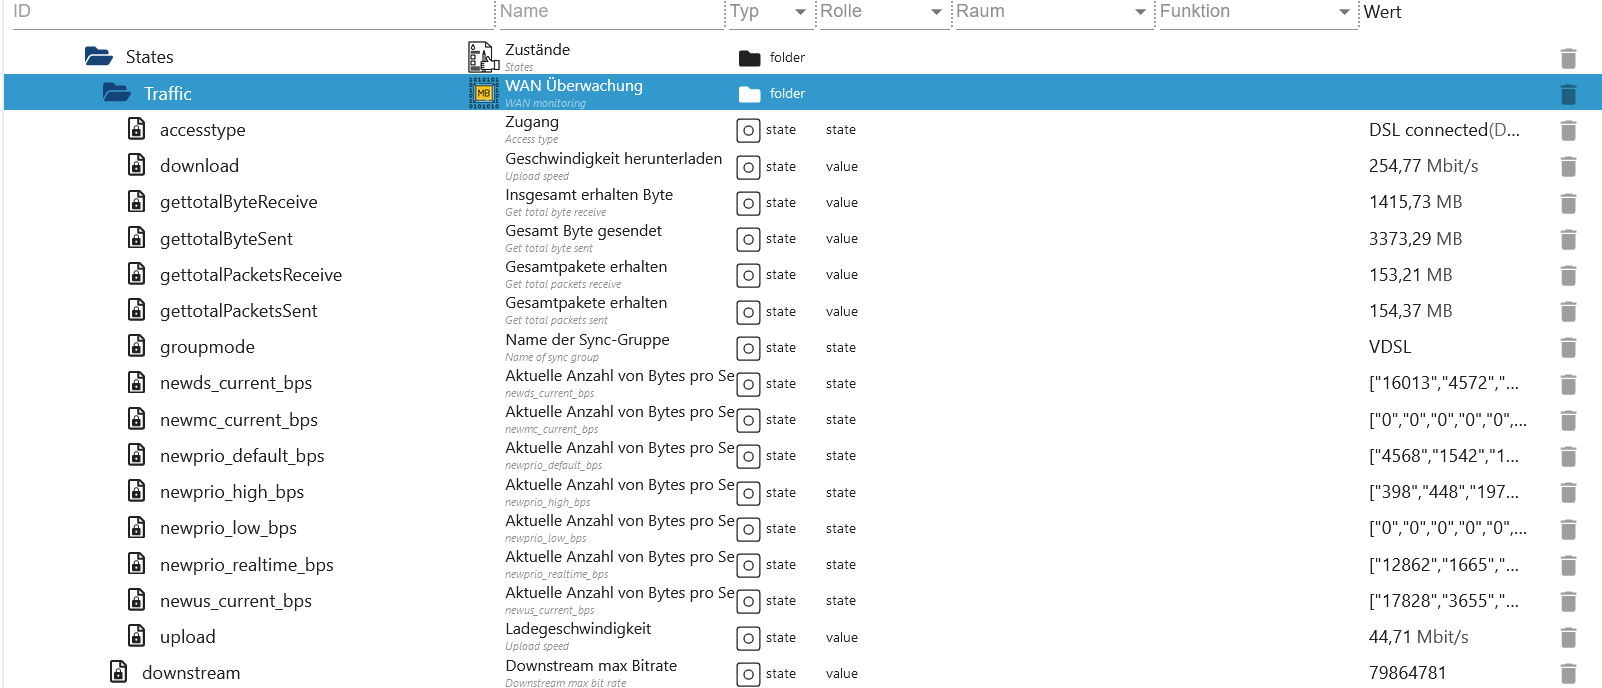
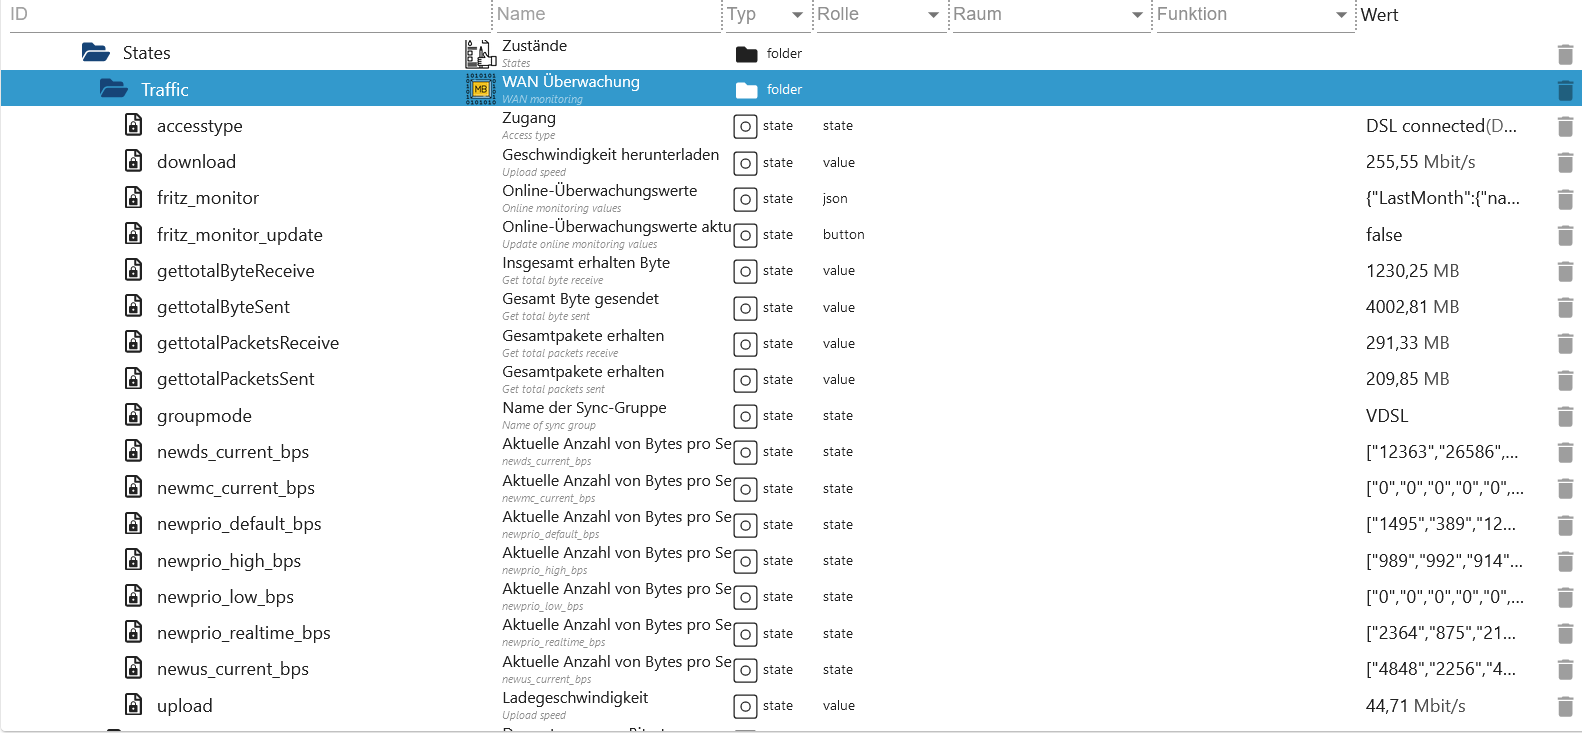
update desc & bugfix

diff --git a/lib/api.js b/lib/api.js
@@ -518,7 +518,7 @@ class Fritzbox extends EventEmitter {
             );
         } else if (resp && resp.response && resp.response.status == 500) {
             this.adapter.log.warn(`Internal error command!`);
-        } else if (resp.indexOf("timeout") != -1) {
+        } else if (resp && resp.indexOf("timeout") != -1) {
             this.adapter.log.warn(`Request error command! - ${resp}`);
         } else {
             this.adapter.log.warn(`Unknown error command - ${JSON.stringify(resp)}`);

diff --git a/docs/de/README.md b/docs/de/README.md
@@ -871,6 +871,53 @@
 -   `States.Traffic.newus_current_bps` Aktuelle Anzahl der Bytes pro Sekunde in Upstream-Richtung
 -   `States.Traffic.upload` Maximale Anzahl von Bytes pro Sekunde in Upstream-Richtung
 
+# Online Monitoring
+
+```JSON
+{
+  "LastMonth": {
+    "name": "Vormonat",
+    "time": "743:59",
+    "outgoing": 40321,
+    "incoming": 812748,
+    "total": 853069,
+    "connection": "62"
+  },
+  "ThisWeek": {
+    "name": "Aktuelle Woche",
+    "time": "6:21",
+    "outgoing": 123,
+    "incoming": 911,
+    "total": 1034,
+    "connection": "2"
+  },
+  "Today": {
+    "name": "Heute",
+    "time": "6:21",
+    "outgoing": 123,
+    "incoming": 911,
+    "total": 1034,
+    "connection": "2"
+  },
+  "Yesterday": {
+    "name": "Gestern",
+    "time": "24:00",
+    "outgoing": 1605,
+    "incoming": 45867,
+    "total": 47472,
+    "connection": "2"
+  },
+  "ThisMonth": {
+    "name": "Aktueller Monat",
+    "time": "222:20",
+    "outgoing": 15394,
+    "incoming": 239237,
+    "total": 254631,
+    "connection": "22"
+  }
+}
+```
+
 ![tr-064_states_3.png](img/tr-064_states_3.png)
 
 ### Blockly

diff --git a/docs/en/README.md b/docs/en/README.md
@@ -874,6 +874,53 @@
 -   `States.Traffic.newus_current_bps` Current number of bytes per second in upstream direction
 -   `States.Traffic.upload` Max number of bytes per second in upstream direction
 
+# Online Monitoring
+
+```JSON
+{
+  "LastMonth": {
+    "name": "Vormonat",
+    "time": "743:59",
+    "outgoing": 40321,
+    "incoming": 812748,
+    "total": 853069,
+    "connection": "62"
+  },
+  "ThisWeek": {
+    "name": "Aktuelle Woche",
+    "time": "6:21",
+    "outgoing": 123,
+    "incoming": 911,
+    "total": 1034,
+    "connection": "2"
+  },
+  "Today": {
+    "name": "Heute",
+    "time": "6:21",
+    "outgoing": 123,
+    "incoming": 911,
+    "total": 1034,
+    "connection": "2"
+  },
+  "Yesterday": {
+    "name": "Gestern",
+    "time": "24:00",
+    "outgoing": 1605,
+    "incoming": 45867,
+    "total": 47472,
+    "connection": "2"
+  },
+  "ThisMonth": {
+    "name": "Aktueller Monat",
+    "time": "222:20",
+    "outgoing": 15394,
+    "incoming": 239237,
+    "total": 254631,
+    "connection": "22"
+  }
+}
+```
+
 ![tr-064_states_3.png](img/tr-064_states_3.png)
 
 ### Blockly
